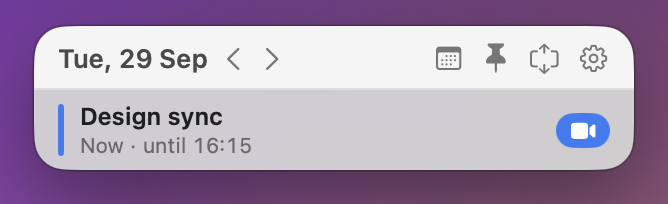
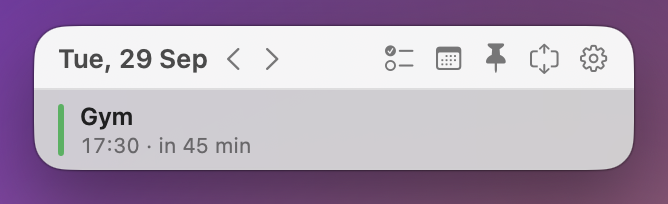
README: screenshots with the reminders sticky, and a reminders close-up

Changed region(s): [[0.0898, 0.5, 0.3892, 0.7647], [0.8084, 0.5294, 0.9281, 0.7353], [0.5689, 0.2059, 0.6287, 0.3529]]

diff --git a/README.md b/README.md
@@ -6,7 +6,7 @@ A tiny menu-bar app that shows the day's calendar as a floating, always-on-top t
 
 <picture>
   <source media="(prefers-color-scheme: dark)" srcset="docs/images/desktop-dark.png">
-  <img src="docs/images/desktop-light.png" alt="A Mac desktop with a code editor and a document open; Sticky Calendar floats in the top-right corner showing the day's events, the current time and a Markdown checklist">
+  <img src="docs/images/desktop-light.png" alt="A Mac desktop with a code editor and a document open; in the top-right corner float the reminders sticky (overdue and today's reminders) and the calendar sticky (the day's events, the current time and a Markdown checklist)">
 </picture>
 
 <picture>
@@ -37,6 +37,14 @@ Keyboard: ←/→ change day; ↑/↓ move between events (or scroll when none i
 Page Up/Down scroll; Return edits the selected event; Esc deselects.
 
 <br clear="right">
+
+<p align="center">
+  <picture>
+    <source media="(prefers-color-scheme: dark)" srcset="docs/images/reminders-dark.png">
+    <img src="docs/images/reminders-light.png" width="260" alt="The reminders sticky in Today view: an overdue reminder, today's reminders with their times, and a field to add one">
+  </picture>
+  <br><sub>Reminders in their own sticky (⌃⌥R) — or as a tab, in Settings → Reminders.</sub>
+</p>
 
 <p align="center">
   <picture>
